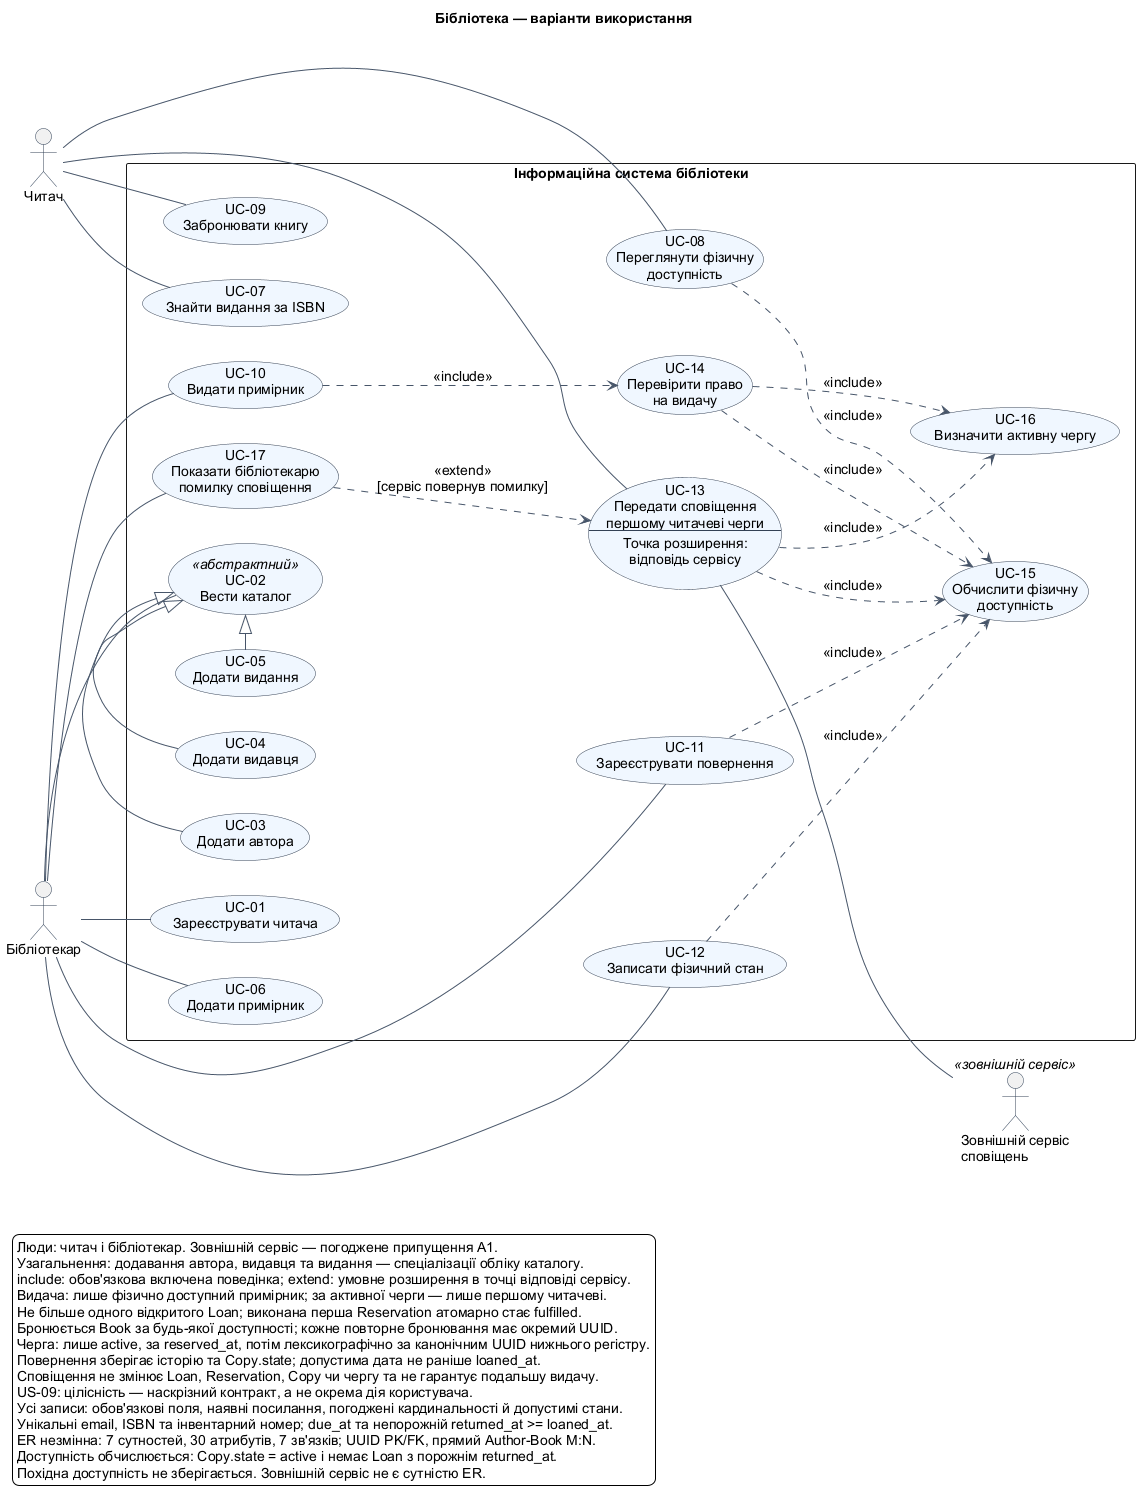
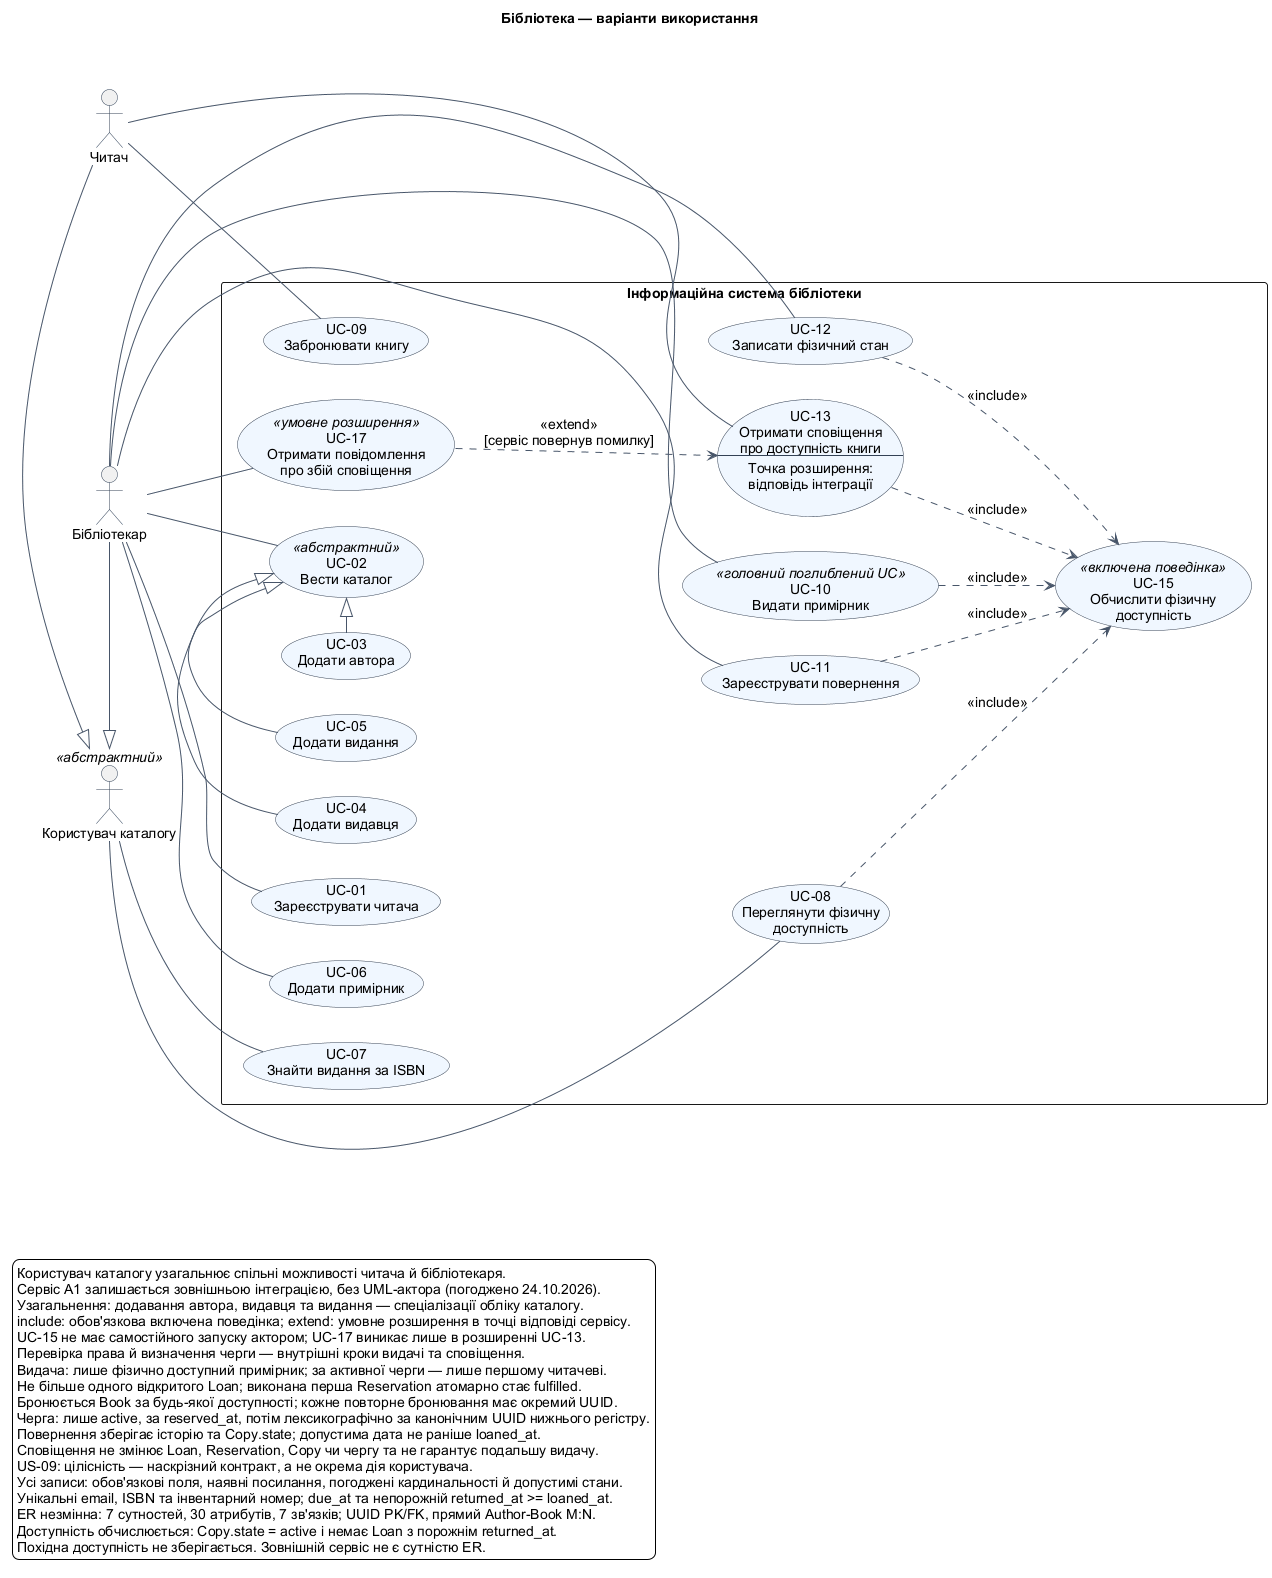
refactor(lab2): correct use case actors and relationships

diff --git a/lab2/adr/0003-catalogue-actors.md b/lab2/adr/0003-catalogue-actors.md
@@ -1,0 +1,51 @@
+# ADR-L2-0003 — Спільний користувач каталогу та внутрішня поведінка
+
+Статус: погоджено користувачем 24.10.2026. Текст NFR та ER не змінюється.
+
+## Context
+
+Користувач підтвердив, що бібліотекар, як і читач, шукає за ISBN та переглядає
+доступність. Ці можливості належать веденню каталогу в NFR-08, а не дають
+бібліотекарю права бронювати від імені читача. Попередня діаграма мала лише
+узагальнення UC, але не спільного актора. Внутрішні перевірки відволікали
+від цілей акторів. UC-10 обрано головним поглибленим варіантом.
+
+## Decision Drivers
+
+- Фактичні спільні можливості обох ролей, підтверджені власником.
+- Відсутність фіктивного актора та незмінність тексту 12 NFR.
+- Розрізнення користувацької цілі, включеної поведінки та внутрішнього кроку.
+- Стабільні ID з чесним вилученням застарілих посилань.
+
+## Alternatives
+
+1. Спільний абстрактний актор «Користувач каталогу», обидві ролі успадковують
+   пошук і перегляд; внутрішні кроки права/черги у тексті сценаріїв.
+2. Дублювати зв'язки пошуку й перегляду для обох ролей — коректно, але
+   не виражає підтвердженого спільного набору можливостей узагальненням.
+3. Наслідувати бібліотекаря від читача — помилково передає всі специфічні
+   можливості читача, включно з бронюванням, замість лише спільного каталогу.
+
+## Decision
+
+Використовувати варіант 1: Reader/Librarian → CatalogUser, порожній
+трикутник вказує на загального актора. CatalogUser асоційований з UC-07
+і UC-08; читач зберігає бронювання та отримання сповіщення.
+US-04 тепер охоплює обидві ролі; її старі сценарії прямо перевіряють читача,
+окремих прикладів бібліотекаря поки немає. Це явно зазначена межа покриття.
+
+Колишні UC-14 і UC-16 вилучені як окремі еліпси: право й черга — кроки
+видачі/сповіщення. UC-15 збережено лише як включену поведінку, оскільки
+одне правило доступності обов'язково використовується у п'яти UC.
+UC-17 — лише умовне розширення UC-13 при збої інтеграції; асоціація
+бібліотекаря означає отримувача помилки, не незалежний запуск цієї дії.
+Збережено 15 UC, 5 include, 1 extend, 2 узагальнення акторів та 3 узагальнення UC.
+
+## Consequences
+
+Права на пошук/перегляд уточнені погодженням як частина ведення каталогу;
+текст NFR-08 не редагується. Алгоритми, REQ-01–REQ-24, 12 NFR та ER незмінні.
+Номери вилучених UC не перевикористовуються, активна матриця містить лише
+чинні ID. Нова кількість врахована у перевірці трасування та README.
+Власник самостійно уточнює spec за [пропозицією](../spec-change-proposal.md);
+поки це не зроблено, повну узгодженість spec із новою діаграмою не заявляємо.

diff --git a/lab2/spec-change-proposal.md b/lab2/spec-change-proposal.md
@@ -1,0 +1,37 @@
+# Уточнення spec для самостійного внесення власником
+
+Погоджено в діалозі 24.10.2026. Сам `lab2/spec.md` асистент не редагує.
+До внесення нижчих уточнень залишаються відомі розходження між текстом
+spec і новою діаграмою; це не позначається як повна узгодженість.
+
+1. **«Актори та цілі»** — замінити абзац на:
+
+   > Користувач каталогу — спільна роль читача й бібліотекаря: пошук видання
+   > за ISBN і перегляд фізичної доступності. Бібліотекар реєструє читачів,
+   > веде каталог і примірники, оформлює видачу та повернення. Читач бронює
+   > книгу та отримує сповіщення про можливість її отримання. Зовнішній
+   > сервіс сповіщень — інтеграція A1, а не UML-актор цієї діаграми.
+
+2. **AC-05** — зберегти сталі ID й трасування, а вимогу до діаграми викласти так:
+
+   > EARS, історії, Gherkin і Use Cases мають сталі ID та трасування до
+   > ER/правил; діаграма містить читача й бібліотекаря зі спільним актором
+   > «Користувач каталогу», обґрунтовані include/extend та узагальнення.
+   > Інтеграція A1 документується окремо без UML-актора сервісу.
+   > Аудит і ADR пояснюють рішення й фактичні розбіжності.
+
+3. **A1** — зберегти всі погоджені умови передавання та помилки; додати:
+
+   > На Use Case Diagram A1 не є окремим актором; передавання даних
+   > описується як інтеграційний крок UC-13.
+
+4. **Поглиблення** — у критеріях прийняття додати:
+
+   > UC-10 «Видати примірник» — головний поглиблений Use Case; його
+   > передумови, основний та альтернативні потоки, винятки, постумови
+   > і зв'язки з вимогами наведені в `uc-10-detail.md`.
+
+Ці уточнення не змінюють ER, алгоритм черги, правило однієї відкритої
+видачі, хронологію або текст 12 NFR. Раніше вимагався зовнішній актор;
+цей пункт змінюється за явним погодженням власника після AI-CHECK,
+а не оголошується виконаним старим формулюванням.

diff --git a/lab2/user-stories.md b/lab2/user-stories.md
@@ -43,12 +43,16 @@ Gherkin: [SC-06, SC-07, SC-14](features/catalog.feature).
 
 ## US-04 — Пошук і фізична доступність
 
-As a reader, I want to find an edition by ISBN and inspect its copies, so that I can distinguish catalogue presence from physical availability.
+As a catalogue user (reader or librarian), I want to find an edition by ISBN and inspect its copies, so that I can distinguish catalogue presence from physical availability.
 
 Критерії прийняття: точний ISBN повертає відповідний Book або порожній
 результат. Для кожного Copy доступність істинна лише за state active
 та відсутності відкритого Loan. Книга без Copy явно показує їх відсутність.
 Фізична доступність не означає право обійти чергу бронювань.
+Погоджено 24.10.2026: бібліотекар має ці самі можливості як частину ведення
+каталогу; це уточнення обсягу ролі NFR-08 без зміни тексту NFR.
+SC-08–SC-10 формулюють приклади для читача; окремих поведінкових прикладів
+для бібліотекаря поки немає, їх не приписуємо наявним тегам.
 
 EARS: [REQ-08, REQ-09](requirements.md).
 Gherkin: [SC-08–SC-10](features/catalog.feature).
@@ -101,8 +105,10 @@ As a reader, I want to receive a notification when a copy can be offered to me a
 Критерії прийняття: зовнішньому сервісу передаються email першого читача,
 id і назва Book; помилка показується бібліотекарю з посиланням на Book.
 Передавання та помилка не змінюють Loan, Reservation, Copy чи чергу.
-Доставка не гарантує видачу: право перевіряється повторно. Сервіс — зовнішній
-актор згідно з погодженим A1, без нової сутності ER.
+Доставка не гарантує видачу: право перевіряється повторно. За уточненням,
+погодженим 24.10.2026, сервіс — зовнішня інтеграція A1, без UML-актора
+та без нової сутності ER. UC-13 описує ціль читача отримати сповіщення;
+передавання даних сервісу є внутрішнім кроком цієї взаємодії.
 
 EARS: [REQ-22–REQ-24](requirements.md).
 Gherkin: [SC-25–SC-27](features/notifications.feature),

diff --git a/lab2/adr/0002-structural-contract.md b/lab2/adr/0002-structural-contract.md
@@ -35,7 +35,7 @@ REQ-10 вимагає збереження структури ER, UUID PK/FK, п
 
 ## Consequences
 
-Усі 17 UC мають вимоги; не кожна вимога мусить породжувати новий UC.
+Усі 15 поточних UC мають вимоги; не кожна вимога мусить породжувати новий UC.
 Повне охоплення ID не дорівнює виконанню сценаріїв або перебору всіх даних.
 Трасувальний скрипт дозволяє структурний виняток тільки для REQ-10.
 Семантика правил, хронологія й конкуренція потребують окремих перевірок.
